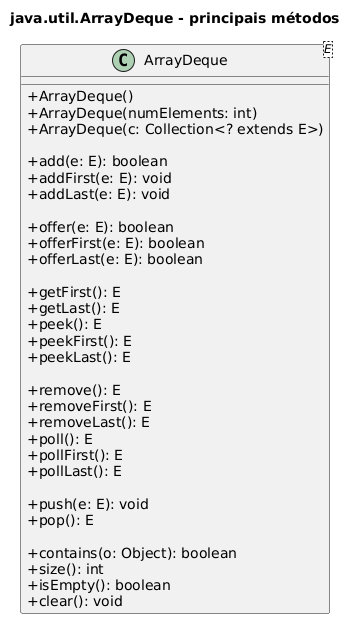
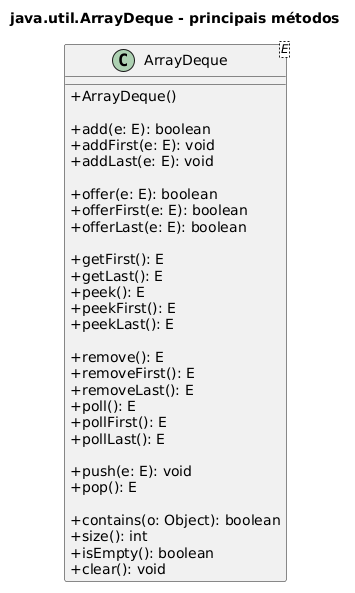
ajustes

Changed region(s): [[0.031, 0.0, 0.9606, 1.0], [0.4648, 0.7892, 0.5577, 0.8196]]

diff --git a/subjects/poo/lectures/11-collections.md b/subjects/poo/lectures/11-collections.md
@@ -792,6 +792,61 @@ PriorityQueue<String> nomes =
 
 ---
 
+<!-- _class: compact -->
+
+# Comparando listas e filas
+
+<table class="tiny">
+  <thead>
+    <tr>
+      <th>Classe</th>
+      <th>Uso típico</th>
+      <th>Ordem</th>
+      <th>null</th>
+      <th>Ponto forte</th>
+      <th>Cuidado</th>
+    </tr>
+  </thead>
+  <tbody>
+    <tr>
+      <td><code>ArrayList</code></td>
+      <td>lista geral</td>
+      <td>inserção/índice</td>
+      <td>permite</td>
+      <td>acesso por índice O(1)</td>
+      <td>inserção/remoção no meio custa O(n)</td>
+    </tr>
+    <tr>
+      <td><code>LinkedList</code></td>
+      <td>lista, fila ou pilha</td>
+      <td>inserção</td>
+      <td>permite</td>
+      <td>operações nas extremidades O(1)</td>
+      <td>acesso por índice custa O(n)</td>
+    </tr>
+    <tr>
+      <td><code>ArrayDeque</code></td>
+      <td>fila ou pilha</td>
+      <td>extremidades</td>
+      <td>não permite</td>
+      <td>fila/pilha eficiente sem classes legadas</td>
+      <td>não oferece acesso por índice</td>
+    </tr>
+    <tr>
+      <td><code>PriorityQueue</code></td>
+      <td>fila por prioridade</td>
+      <td>prioridade</td>
+      <td>não permite</td>
+      <td>remove primeiro o elemento prioritário</td>
+      <td>iteração não garante ordem ordenada</td>
+    </tr>
+  </tbody>
+</table>
+
+<div class="source">Fonte: documentação Oracle Java SE 21 para <code>ArrayList</code>, <code>LinkedList</code>, <code>ArrayDeque</code> e <code>PriorityQueue</code>.</div>
+
+---
+
 # Interfaces: visão geral
 
 <div class="callout">
